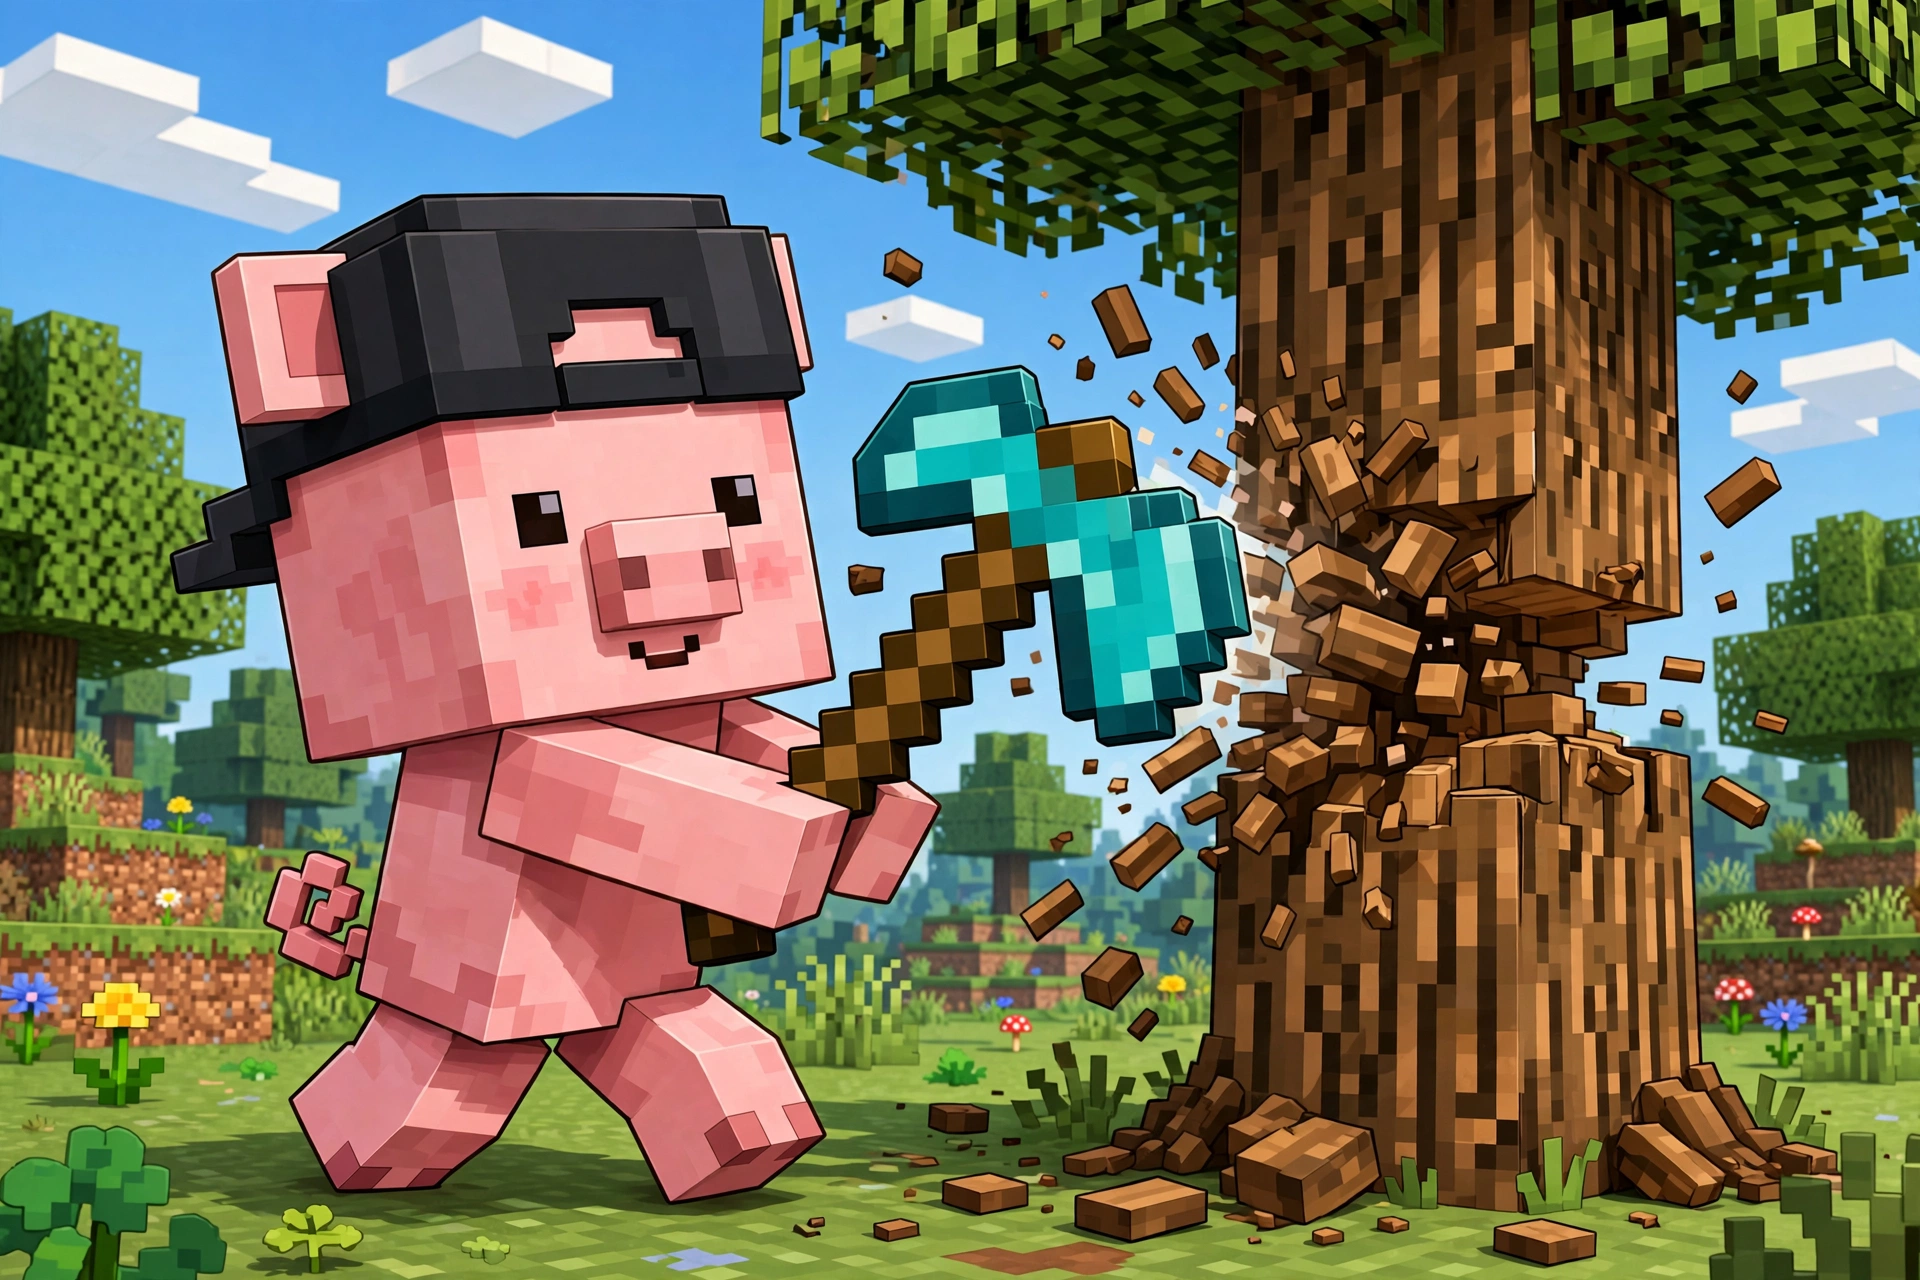
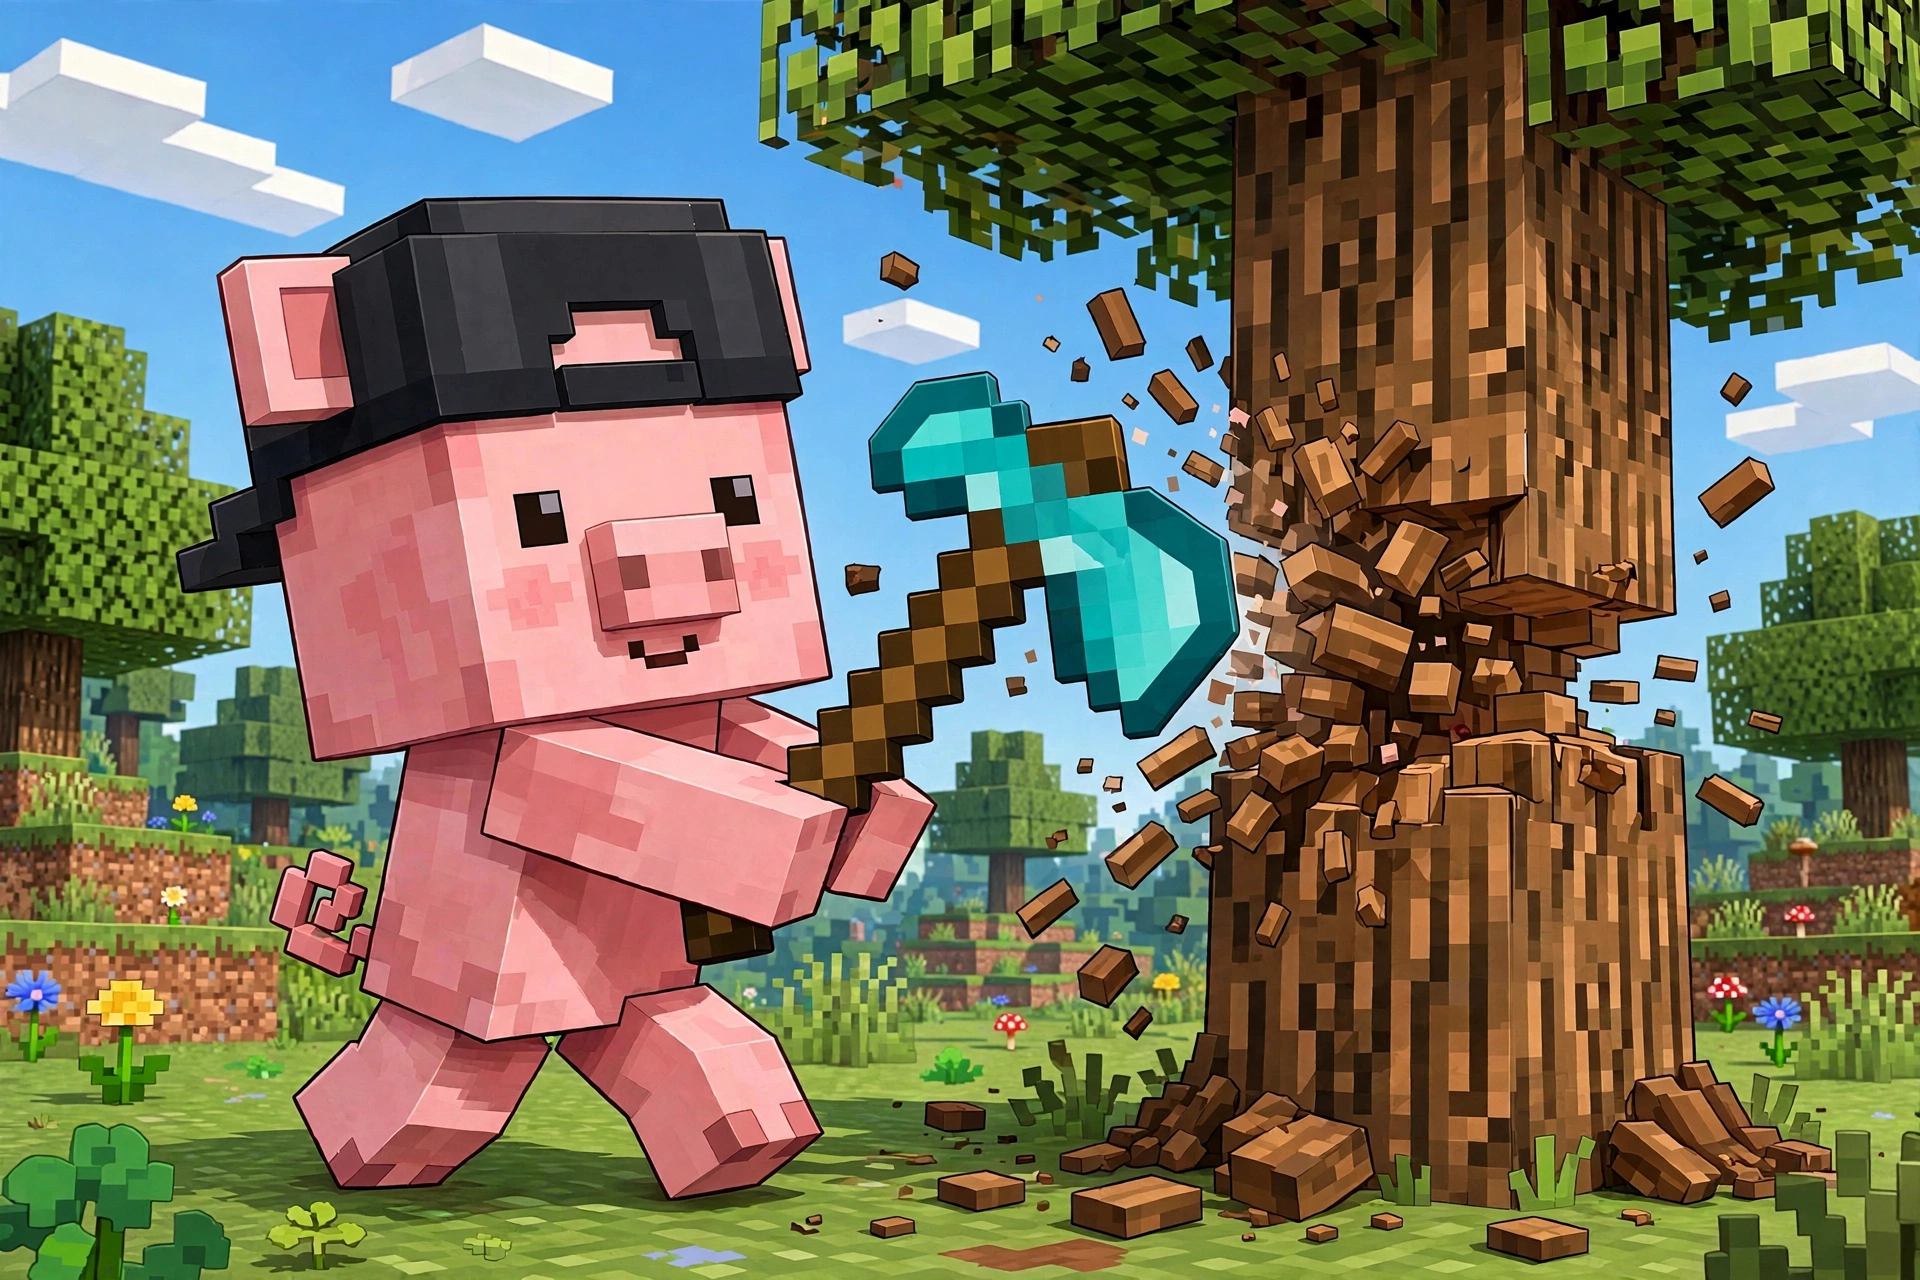
Site: Tips & Tricks overhaul
- Replace What's New page with Tips & Tricks (two sections:
  Dial in your settings + Gameplay)
- Home page card: Catch up on Minecraft -> Tips & tricks
- Tree chopping highlight: new copy + regenerated Hammy in
  Minecraft voxel style with fixed diamond axe
- Add VeinMiner hotkey tip (suggest V, default conflicts)
- Don't assume V hotkey elsewhere; refer to 'the VeinMiner hotkey'
- Remove death compass tip (disabled); keep shift-click grave tip
- Move world map to Gameplay
- Remove 'See what's different' footer link from Tips page

diff --git a/index.html b/index.html
@@ -521,6 +521,12 @@
         grid-template-columns: minmax(0, 1fr);
         gap: 12px;
       }
+      .tips-grid {
+        display: grid;
+        grid-template-columns: repeat(3, minmax(0, 1fr));
+        gap: 12px;
+      }
+      .tips-grid .mod { display: block; }
       .full-mod-list {
         margin-top: 68px;
         padding-top: 4px;
@@ -670,7 +676,7 @@
         .release-copy { padding: 18px; }
         .principles { grid-template-columns: 1fr; }
         .mod-section-head { grid-template-columns: 1fr; gap: 8px; }
-        .mod-grid, .full-mod-grid { grid-template-columns: 1fr; }
+        .mod-grid, .full-mod-grid, .tips-grid { grid-template-columns: 1fr; }
         .mod.featured { grid-column: auto; }
       }
 
@@ -786,25 +792,27 @@
         <header class="panel-head is-single">
           <div>
             <h2>Tips &amp; tricks</h2>
-            <p style="color: var(--muted); margin-top: 8px;">Stuff you can do in-game that you might not discover on your own.</p>
+            <p style="color: var(--muted); margin-top: 8px;">Make the most of the HamCraft pack.</p>
           </div>
         </header>
 
-        <div class="mod-grid">
-          <article class="mod"><div><h4>Chop whole trees</h4><p>Get the <strong>VeinMiner</strong> enchantment on an axe, then hold <strong>V</strong> while looking at a log. The whole tree comes down in one go — takes as long as chopping by hand, just fewer clicks.</p></div></article>
+        <h3 class="section-title" style="margin-top: 32px;">Dial in your settings</h3>
+        <div class="tips-grid">
           <article class="mod"><div><h4>Pretty shaders</h4><p>Press <strong>I</strong> to open the shader picker and enable <strong>Complementary Reimagined</strong>. It's optional — the server doesn't require it.</p></div></article>
-          <article class="mod"><div><h4>World map</h4><p>Press <strong>M</strong> for the full-screen world map. Right-click to create waypoints, so you never lose your base again.</p></div></article>
           <article class="mod"><div><h4>Minimap radar</h4><p>Open the minimap settings (default <strong>Y</strong>) and turn on entity radar — player faces, item dots, friendly and hostile mob dots. You'll see what's around you without the full map.</p></div></article>
-          <article class="mod"><div><h4>Death compass</h4><p>When you die, you get a <strong>death compass</strong> pointing to your grave. Shift-click the grave to grab everything at once. You have 2 hours before it despawns.</p></div></article>
+          <article class="mod"><div><h4>Tree-chop hotkey</h4><p>VeinMiner's default hotkey conflicts with other mods. Go to <strong>Options → Controls → Key Binds</strong>, find VeinMiner, and set it to <strong>V</strong>.</p></div></article>
+        </div>
+
+        <h3 class="section-title" style="margin-top: 32px;">Gameplay</h3>
+        <div class="tips-grid">
+          <article class="mod"><div><h4>Chop whole trees</h4><p>Get the <strong>VeinMiner</strong> enchantment on an axe, then hold the VeinMiner hotkey while looking at a log. The whole tree comes down in one go — takes as long as chopping by hand, just fewer clicks.</p></div></article>
+          <article class="mod"><div><h4>World map</h4><p>Press <strong>M</strong> for the full-screen world map. Right-click to create waypoints, so you never lose your base again.</p></div></article>
           <article class="mod"><div><h4>Move villagers</h4><p><strong>Right-click a villager with a lead</strong> to leash them. No more boats, minecarts, or pushing them through doorways.</p></div></article>
           <article class="mod"><div><h4>Reroll trades</h4><p>Open a villager's trade screen and click the <strong>cycling button</strong> to reroll their trades. No need to break and replace the workstation — but only works before you've traded with them.</p></div></article>
           <article class="mod"><div><h4>Shulkers as backpacks</h4><p><strong>Click an item onto a shulker</strong> in your inventory to store it, or <strong>click the shulker onto an item</strong> to pull things out. Hold <strong>Shift</strong> while hovering to peek inside. <strong>Scroll</strong> to pick a specific slot, <strong>Ctrl</strong> for single-item precision. Works on ender chests too.</p></div></article>
           <article class="mod"><div><h4>Hotbar refills itself</h4><p>When a hotbar stack runs out, <strong>Auto Refill</strong> pulls a matching stack from your inventory automatically. No more mid-fight inventory shuffling.</p></div></article>
           <article class="mod"><div><h4>Tools don't snap</h4><p><strong>Anti Item Break</strong> stops your tools at 1 durability instead of breaking them. You'll see a warning — go repair it.</p></div></article>
-        </div>
-
-        <div class="next-links">
-          <button class="next-link" data-go="server">See what’s different in HamCraft <span aria-hidden="true">→</span></button>
+          <article class="mod"><div><h4>Grab your grave</h4><p>Dying drops a grave with all your items. <strong>Shift-click it</strong> to scoop everything up at once. You have 2 hours before it despawns.</p></div></article>
         </div>
       </section>
 
@@ -826,11 +834,11 @@
               <span class="intro-card-copy"><h3>Download HamCraft</h3><p>Get the latest .mrpack bundle</p></span>
               <span class="intro-card-arrow" aria-hidden="true">→</span>
             </button>
-            <button class="intro-card" data-go="new" type="button" aria-label="Open What’s new in Minecraft">
+            <button class="intro-card" data-go="new" type="button" aria-label="Open Tips and tricks">
               <span class="intro-card-icon" aria-hidden="true">
-                <svg width="22" height="22" viewBox="0 0 24 24" fill="none"><path d="M4 5.5h6.5A2.5 2.5 0 0 1 13 8v11a3 3 0 0 0-3-3H4V5.5Zm16 0h-4.5A2.5 2.5 0 0 0 13 8v11a3 3 0 0 1 3-3h4V5.5Z" stroke="currentColor" stroke-width="2" stroke-linejoin="round"/></svg>
+                <svg width="22" height="22" viewBox="0 0 24 24" fill="none"><path d="M9 18h6m-5 3h4M12 2a7 7 0 0 0-4 12.7c.6.5 1 1.4 1 2.3h6c0-.9.4-1.8 1-2.3A7 7 0 0 0 12 2Z" stroke="currentColor" stroke-width="2" stroke-linecap="round" stroke-linejoin="round"/></svg>
               </span>
-              <span class="intro-card-copy"><h3>Catch up on Minecraft</h3><p>See the biggest changes since 1.21 before jumping back in.</p></span>
+              <span class="intro-card-copy"><h3>Tips &amp; tricks</h3><p>Stuff you can do in-game that you might not discover on your own.</p></span>
               <span class="intro-card-arrow" aria-hidden="true">→</span>
             </button>
           </div>
@@ -845,7 +853,7 @@
             <article class="mod"><img class="highlight-img" src="assets/hammy/highlight-potions.webp" alt="Hammy the pig holding a stack of potions"><div><h4>Potion stacking</h4><p>Potions of the same type stack, so they're finally worth carrying. Empty shulker boxes stack too.</p></div></article>
             <article class="mod"><img class="highlight-img" src="assets/hammy/highlight-antigrief.webp" alt="Hammy the pig relaxing with a friendly creeper inside his cozy house"><div><h4>Respectful explosions</h4><p>Creeper, Ghast, and Wither explosions still hurt, but they won't destroy blocks. TNT and fire are still destructive!</p></div></article>
             <article class="mod"><img class="highlight-img" src="assets/hammy/highlight-phantoms.webp" alt="Hammy the pig standing triumphantly on a defeated phantom"><div><h4>No insomnia</h4><p>Phantoms won't spawn due to lack of sleep. Instead, they spawn every night — but only above Y=160.</p></div></article>
-            <article class="mod"><img class="highlight-img" src="assets/hammy/highlight-trees.webp" alt="Hammy the pig swinging a diamond axe at a tall oak tree"><div><h4>Tree chopping</h4><p>Hold V with an enchanted axe to fell an entire tree in one go. Takes as long as chopping by hand — just fewer clicks.</p></div></article>
+            <article class="mod"><img class="highlight-img" src="assets/hammy/highlight-trees.webp" alt="Hammy the pig swinging a diamond axe at a tall oak tree"><div><h4>Tree chopping</h4><p>With a new axe enchantment, take down an entire tree in one go.</p></div></article>
           </div>
         </section>
 
@@ -867,7 +875,7 @@
               <article class="mod full-mod"><span class="mod-mark" aria-hidden="true"></span><div><h5>Carpet FGA</h5><p>No “Too Expensive!” on anvils. Soul Speed and Thorns don't drain durability, farmers won't trample your wheat, villagers level up without reopening trades, and new villagers roll minimum prices.</p></div></article>
               <article class="mod full-mod"><span class="mod-mark" aria-hidden="true"></span><div><h5>Sessility</h5><p>AFK players show in the tab list and don't block the night skip.</p></div></article>
               <article class="mod full-mod"><span class="mod-mark" aria-hidden="true"></span><div><h5>Leash Villager</h5><p>Right-click a villager with a lead to leash them. No more boat/minecart wrangling.</p></div></article>
-              <article class="mod full-mod"><span class="mod-mark" aria-hidden="true"></span><div><h5>VeinMiner</h5><p>Hold V with an enchanted axe to chop an entire tree at once. Progression-gated by the VeinMiner enchantment.</p></div></article>
+              <article class="mod full-mod"><span class="mod-mark" aria-hidden="true"></span><div><h5>VeinMiner</h5><p>Hold the VeinMiner hotkey with an enchanted axe to chop an entire tree at once. Progression-gated by the VeinMiner enchantment.</p></div></article>
               <article class="mod full-mod"><span class="mod-mark" aria-hidden="true"></span><div><h5>Auto Refill Slot</h5><p>Your hotbar automatically refills from your inventory when a stack runs out.</p></div></article>
               <article class="mod full-mod"><span class="mod-mark" aria-hidden="true"></span><div><h5>Anti Item Break</h5><p>Tools stop working at 1 durability instead of breaking.</p></div></article>
             </div>
